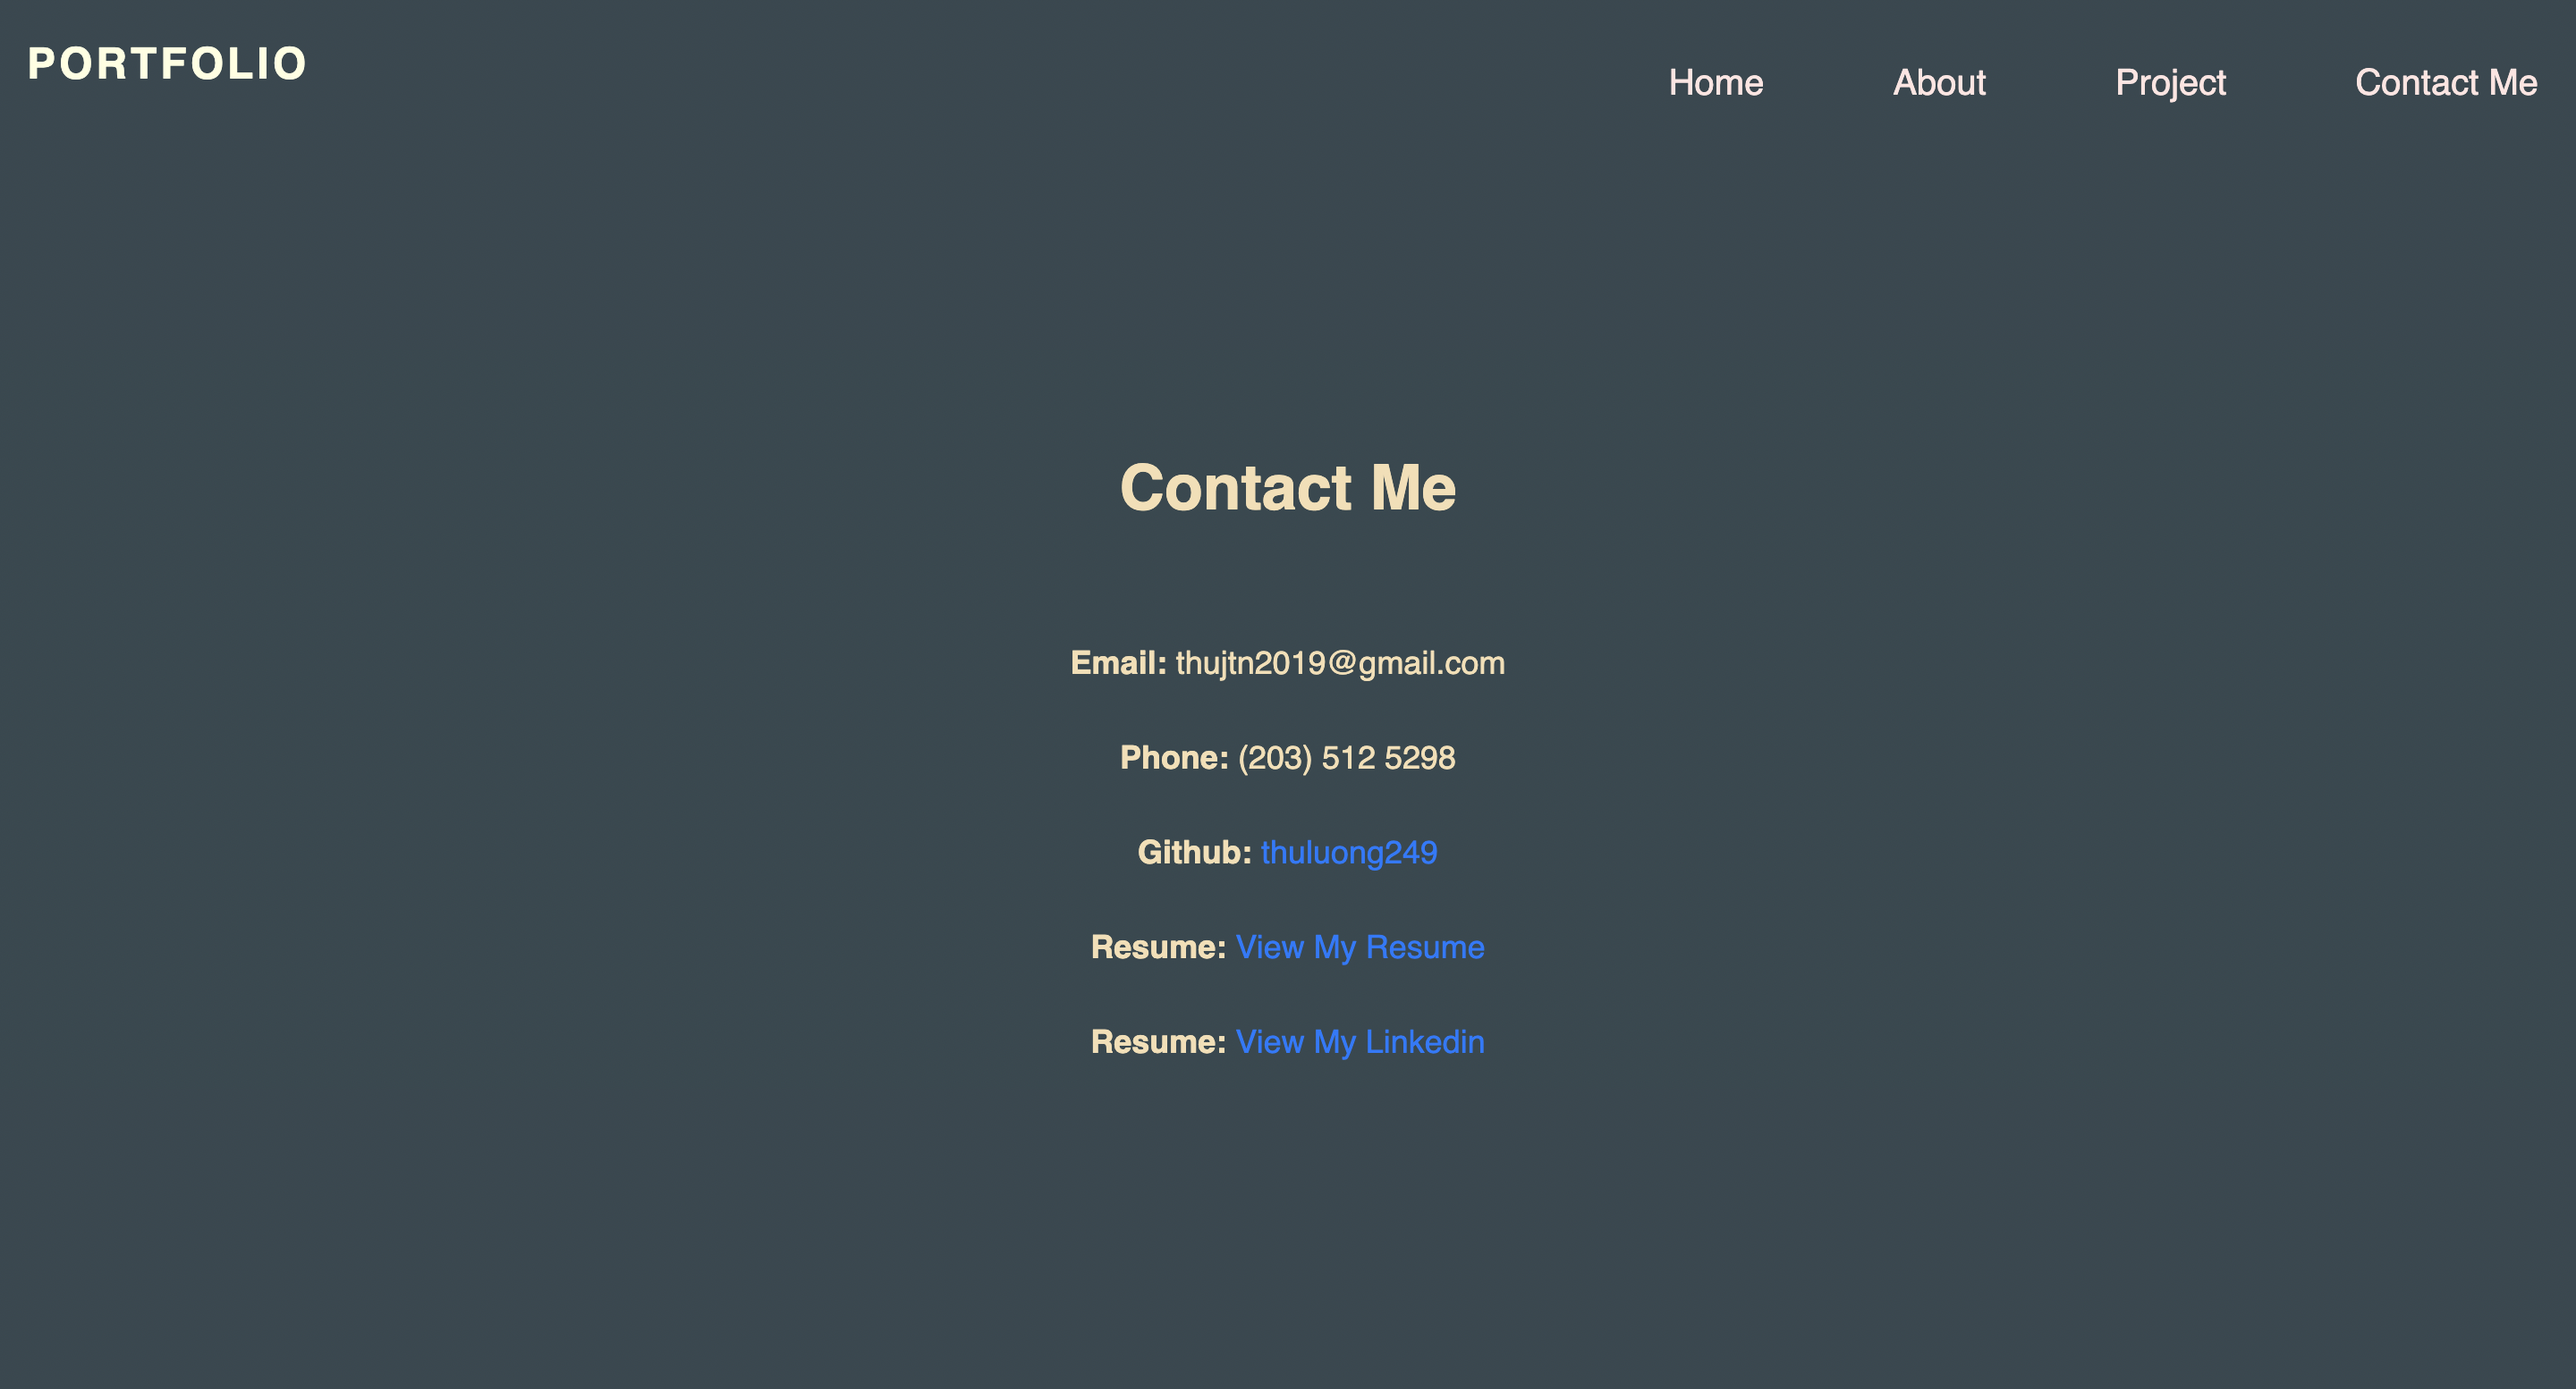
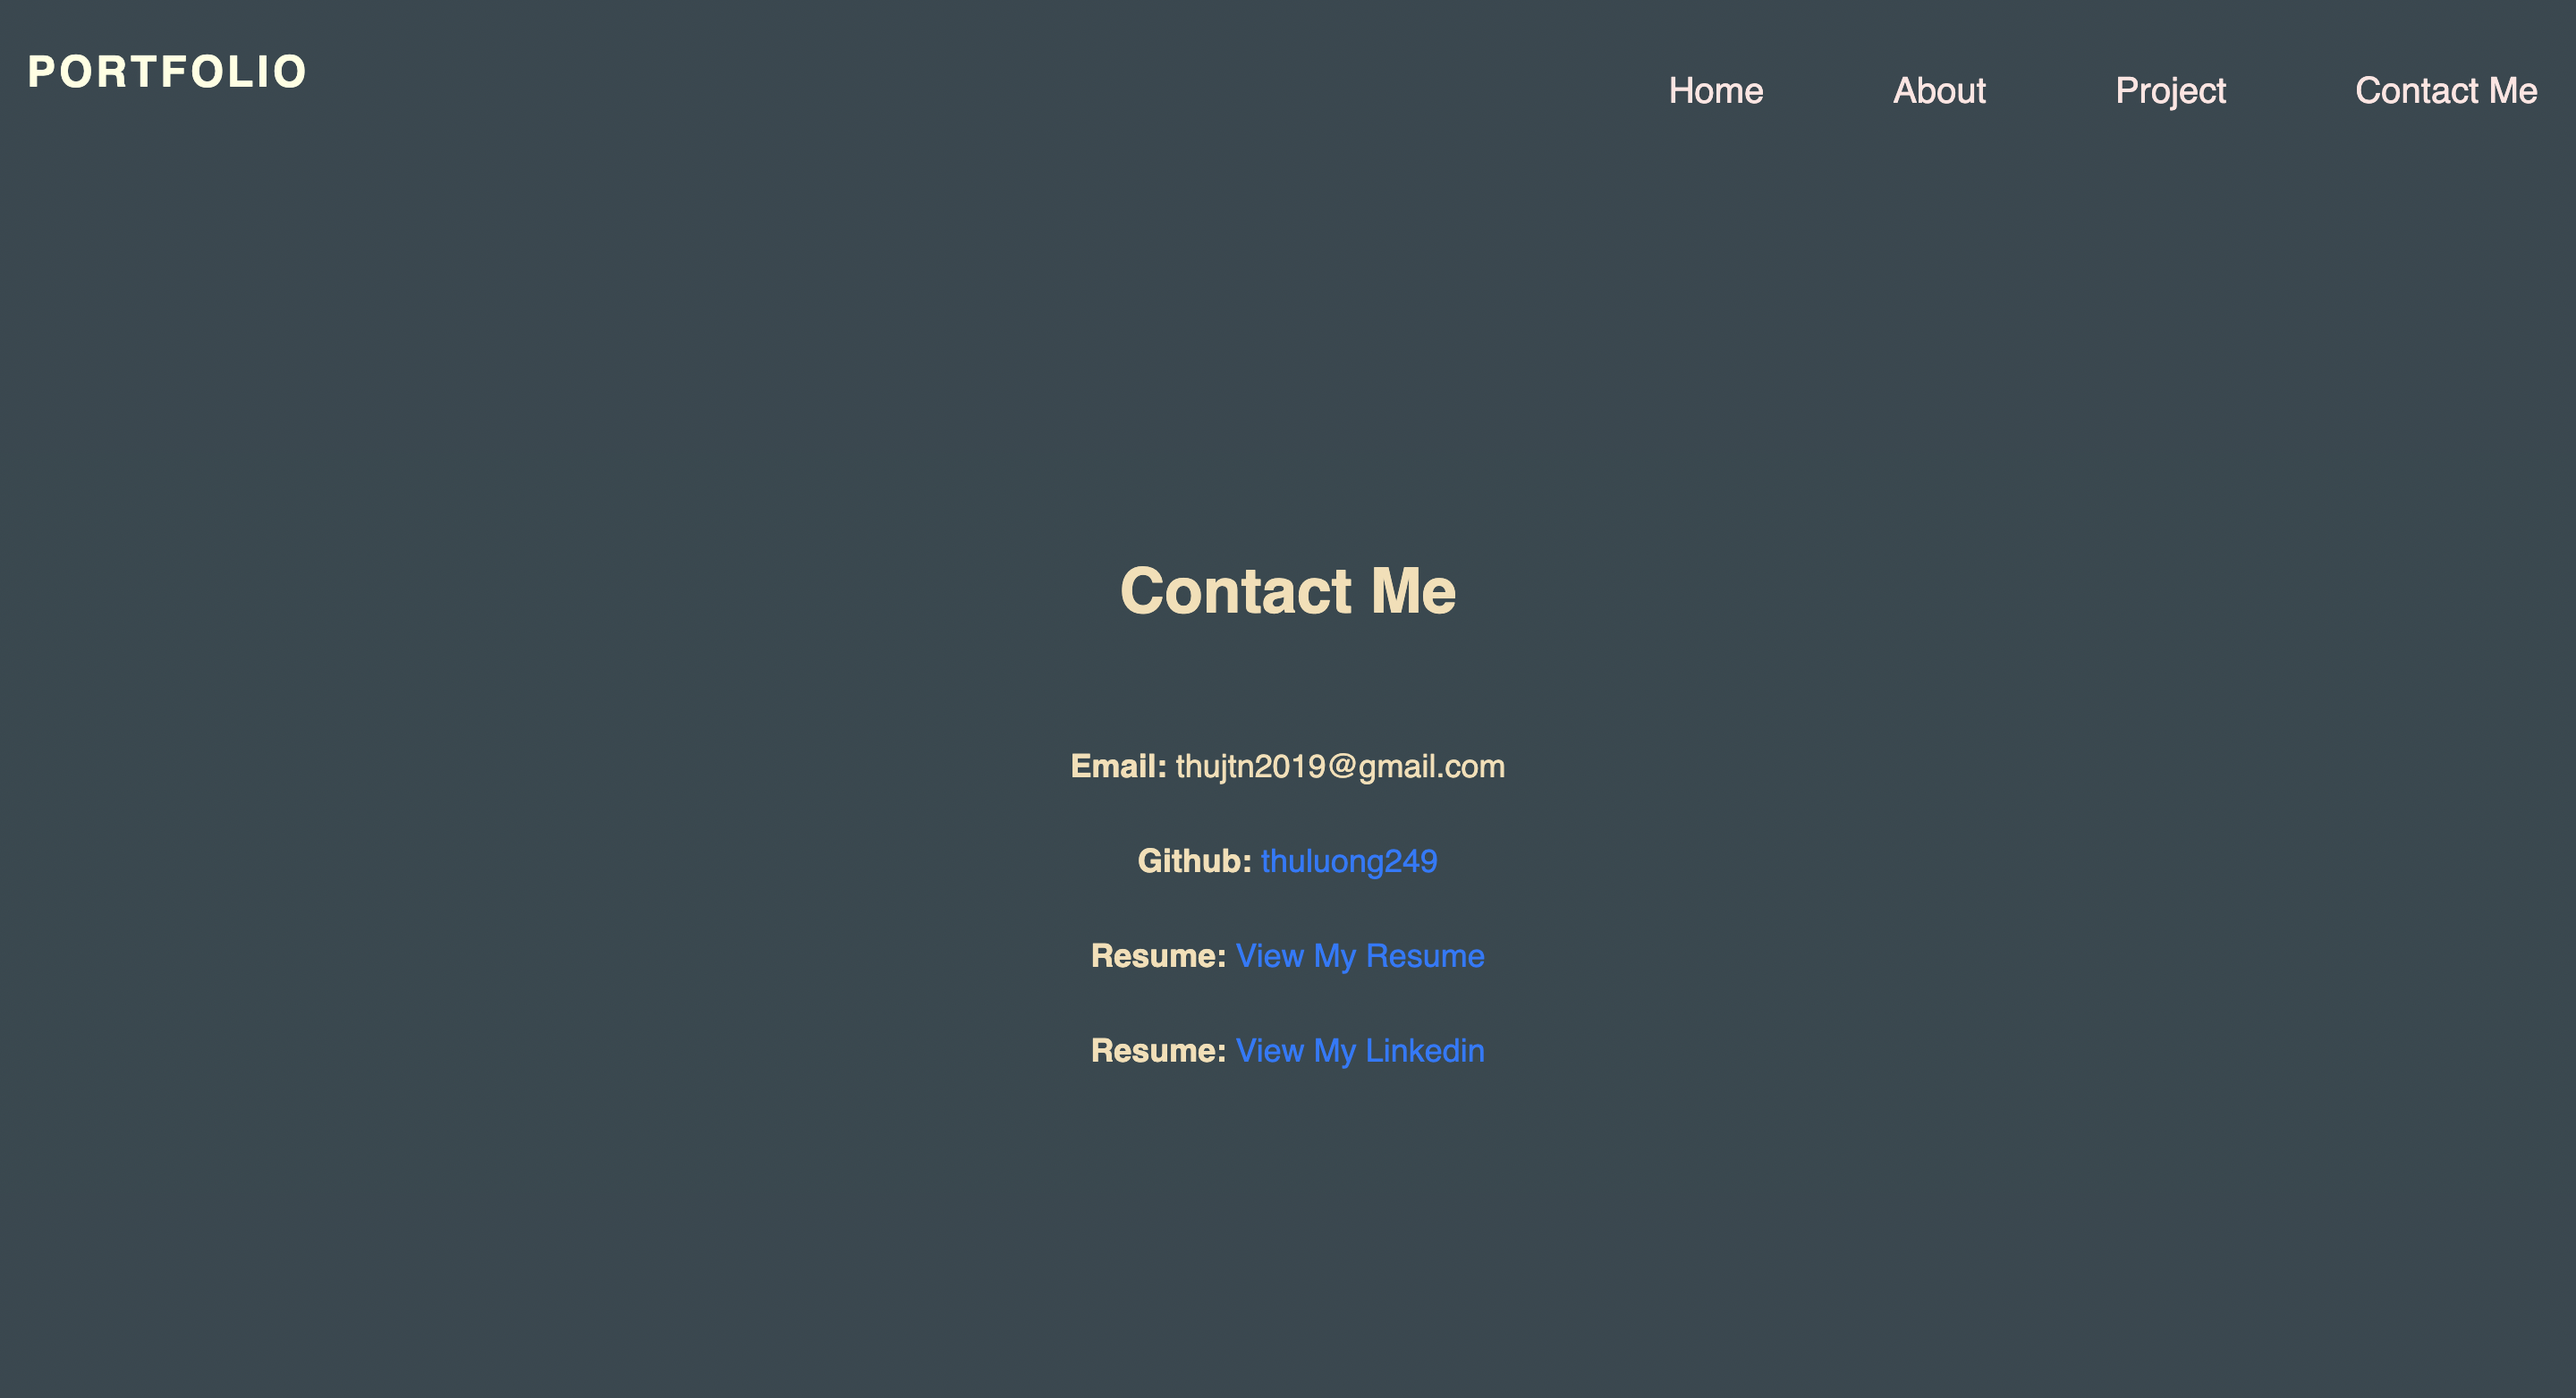
updated README file

diff --git a/index.html b/index.html
@@ -4,7 +4,7 @@
     <meta charset="UTF-8" />
     <meta http-equiv="X-UA-Compatible" content="IE=edge" />
     <meta name="viewport" content="width=device-width, initial-scale=1.0" />
-    <title>My Portfolio</title>
+    <title>My New Portfolio</title>
     <link
       rel="stylesheet"
       href="https://cdn.jsdelivr.net/npm/bootstrap@4.6.0/dist/css/bootstrap.min.css"
@@ -30,7 +30,7 @@
         <div class="textBx w50">
           <h3>Hello, My name is</h3>
           <h1><span>Thu Luong</span></h1>
-          <h3>I am a student</h3>
+          <h3>I am a student at UCONN Coding Bootcamp</h3>
           <a href="#about" class="main">About Me</a>
         </div>
       </section>
@@ -42,20 +42,7 @@
           <div class="contentBx">
             <h1><span>I am a student</span></h1>
             <p>
-              I am currently decided to go back to school after two years being
-              in the US. Become a student again and using the second language is
-              the most interesting thing in my life. For the very beginning I
-              have joined the accounting class at a Community College.
-              Personally, I think it was not too bad at all, or I can say
-              exactly it wasn't scared as I though it suppose to be, because
-              Previous I already have learned a little bit about accounting in
-              Viet Nam for my bachelor in Finance and Banking. But, for some
-              reasons I have made a big change, i joined the coding class and I
-              have no idea what will happen next because I don't have any
-              experience or any background about computer, but I did. And now,
-              here I am, in the coding class and some time still want to cry or
-              give up. But, I will try my best for everything I have made for my
-              decision.
+              Since I moved to the US from Vietnam two years ago, I have had held two part-time jobs and in 2021 decided to return to my studies. I completed a bachelor’s degree in Banking and Finance in Vietnam, but as a student now, the most interesting thing is using my second language, English, in class. Upon taking up my studies again, I was nervous despite having previously worked in accounting, but I learned a lot. Overcoming this initial challenge of using my second language in a field I studied before, I decided to undertake a greater challenge and join University of Connecticut’s Certificate in Coding Course. It has not been easy, but I am not turning back. I have decided to dedicate my energy to completing the Bootcamp, and I am giving it my best.
             </p>
           </div>
           <div class="w50">
@@ -128,7 +115,7 @@
         <div class="heading white contact-container">
           <h2 id="contact">Contact Me</h2>
           <p id="email"><b>Email: </b>thujtn2019@gmail.com</p>
-          <p id="phone number"><b>Phone: </b>(203) 512 5298</p>
+          <!-- <p id="phone number"><b>Phone: </b>(203) 512 5298</p> -->
           <p id="github">
             <b>Github:</b>
             <a href="https://github.com/thuluong249">thuluong249</a>

diff --git a/README.md b/README.md
@@ -1,30 +1,30 @@
-# Updated Portfolio 
+# Updated Portfolio 👩💻🧳
 
-For this homework I modified the old homework I have build before. The first portfolio I used HTML and Styles CSS, links and style them. 
+👩💻 For this homework I modified the old homework I have build before. The first portfolio I used HTML and Styles CSS, links and style them. 
 
-This time I have been using a little bit of Bootstrap in this asignment, using the color that I have found on google.com not only from bootstrap. 
+👩💻 This time I have been using a little bit of Bootstrap in this asignment, using the color that I have found on google.com not only from bootstrap. 
 
-Updated all the page and added my full name, email and phone numbers. Added the links to the first project I have created with my classmates plus the other two homeworks from my github page. 
+👩💻 Updated all the page and added my full name, email and phone numbers. Added the links to the first project I have created with my classmates plus the other two homeworks from my github page. 
 
-For the Github page I have updated with pinned the repositories for the page. Added profile picture, Bio, current location, email and link to my deployed Portfolio page.
+👩💻 For the Github page I have updated with pinned the repositories for the page. Added profile picture, Bio, current location, email and link to my deployed Portfolio page.
 
-Customize the size of the page for viewing on a different devices. 
+👩💻 Customize the size of the page for viewing on a different devices. 
 
-Biside I have updated my resume and Linkedin, links them to the Portfolio page.
+👩💻 Biside I have updated my resume and Linkedin, links them to the Portfolio page.
 
-Visit my page => [here](https://thuluong249.github.io/Homework8/)
+🚀🚀 Visit my page => [here](https://thuluong249.github.io/Homework8/)
 
 ## Screnshot about my new Portfolio page:
 
 ---
 
 Home page 
-![Home Page](./Assets/image/Home.png)
+![Home Page](./Assets/image/home.png)
 
 ---
 
 About Me 
-![About](./Assets/image/about.png)
+![About](./Assets/image/aboutme.png)
 
 ---
 
@@ -34,11 +34,13 @@ Projects
 ---
 
 Contact info
-![Contact](./Assets/image/Contact.png)
+![Contact](./Assets/image/contact.png)
 
 ---
 
-## Contact
-**Thu Luong** [Email](mailto:thujtn2019@gmail.com)
----
-My [Github](https://github.com/thuluong249)
+# 📱 Contact 
+
+* [Github](https://github.com/thuluong249)
+
+* <a href="mailto:thujtn2019@gmmail.com">💌 Email</a> 
+
